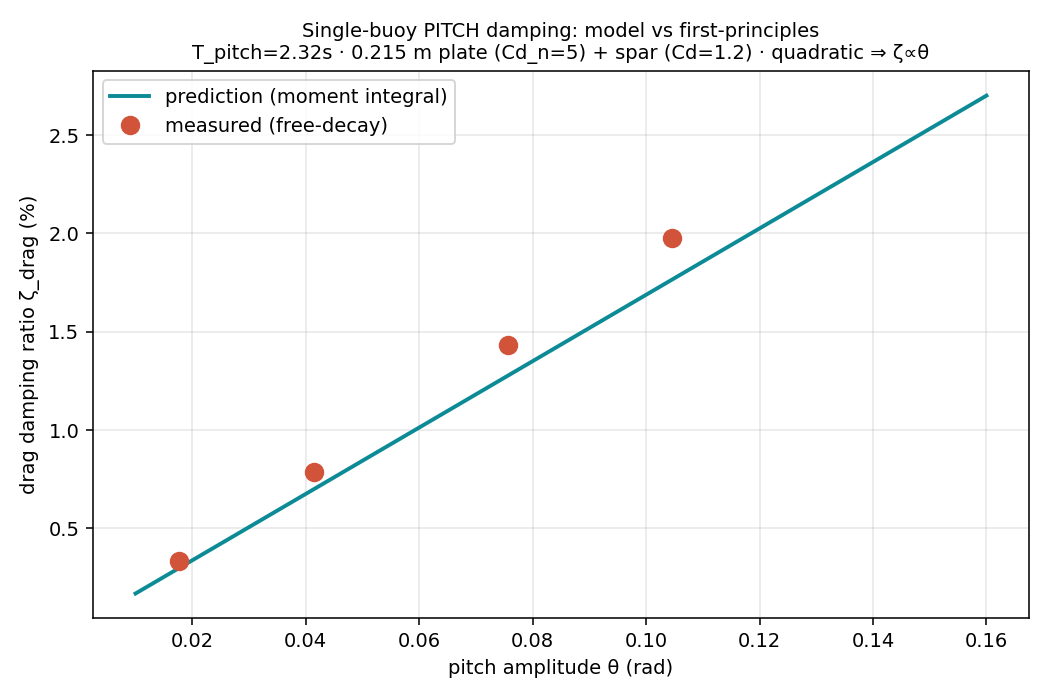
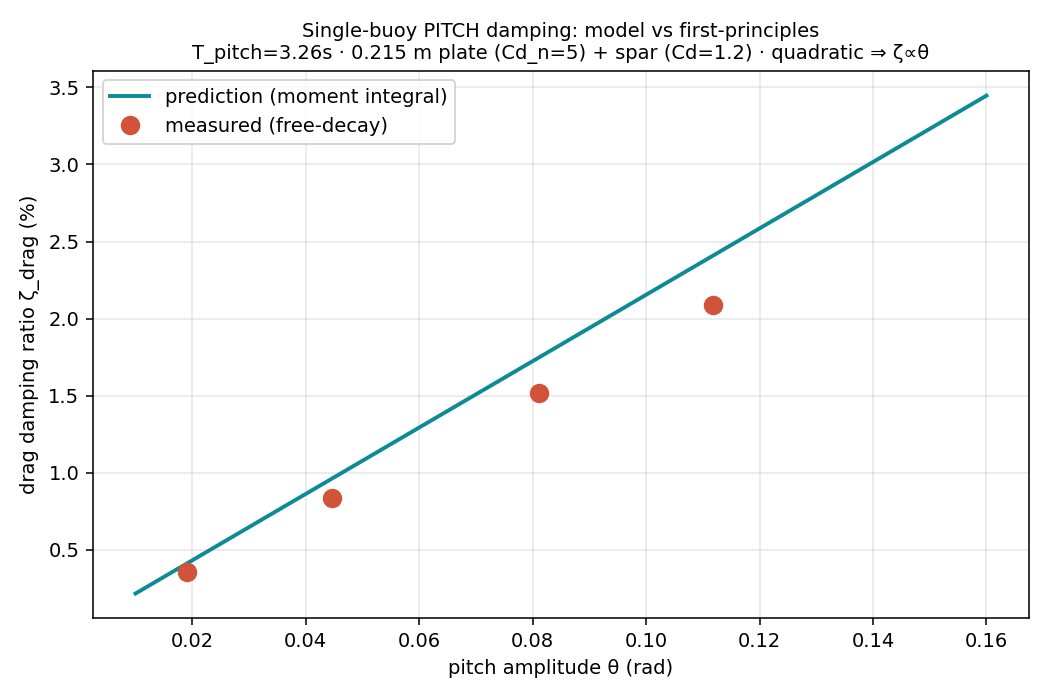
studies(spar-fin-decay): fix the pitch-block reference point
study_common.build_lhs assembled about the mesh origin (the waterline),
with a CoG offset AND the gravity term, although capytaine_bem.nc and
every sparfin_fin_bem database are solved about the CoG. C44/C55 came
out 393.39 instead of 107.56 N*m/rad (+ 28.67*9.81*1.0163 = 285.8), with
wrong M55/M15. It now uses FloatSim's own per-body assembly
(driver._per_body_lhs, deck body with reference point = CoG). The pitch-
and surge-acting drag geometry of sparfin_rao, sparfin_fin_fan and
pitch_decay_verify moves to the CoG frame (PLATE_Z_B, WL_Z_B).

- Heave is exactly unaffected (identical C33, M33 and heave couplings).
  tests/validation/test_m11a_pr1_drag_wiring.py and
  test_m11a_pr4_plate_drag.py (which reproduce the committed zeta
  through build_lhs) pass unchanged: 12 passed. make_morison_force is
  the heave-only surrogate and keeps its mesh-frame z, as pinned by the
  PR1 force-identity gate.
- PITCH-DAMPING-VERIFICATION re-run: pitch mode 3.26 s (was 2.32 s),
  zeta_rad 0.018 % (was 0.59 %), zeta_drag(0.10 rad) 1.52 %,
  meas/pred 0.87 constant across amplitudes (was 1.12), spar/plate
  95/5, n_seg=10 converged (0.8 %). The conclusions hold.
- The single-buoy RAO outputs (sparfin_rao_out, the fin fan) are stale
  and flagged; their reruns are deferred to the post-PR1 cycle.

Tracker STUDY-HYDROSTATIC-REFERENCE-POINT updated.

diff --git a/studies/spar-fin-decay/study_common.py b/studies/spar-fin-decay/study_common.py
@@ -11,6 +11,21 @@ resumption to the true equilibrium draft:
   - eqdraft mesh + BEM (test2_spar_fin_fullfix_eqdraft.gdf), waterline
     at z=0, buoy sinks dz=0.1846 m from design draft.
   - CoG z in eqdraft frame = -0.8317 - 0.1846 = -1.0163 m.
+
+Reference point (FIX 2026-09-24). ``build_lhs`` used to assemble about the
+mesh origin (the WATERLINE), with ``cog_offset (0, 0, CoG_Z)`` AND the
+gravity term, although capytaine_bem.nc (and every sparfin_fin_bem.py
+database) is solved about the CoG (``rotation_center`` = CoG). That gave
+C44 = C55 = 393.39 instead of 107.56 N*m/rad (28.67 * 9.81 * 1.0163 = 285.8
+added) and the wrong M55 / M15. It now uses FloatSim's own per-body assembly
+(``floatsim.driver._per_body_lhs``) on a deck body whose reference point is
+the CoG: the deck convention (reference point = body origin = CoG = BEM
+origin). Heave is exactly unaffected (identical C33, M33 and heave
+couplings). Drag geometry that acts in pitch/surge must be given in the
+body (CoG) frame: use ``PLATE_Z_B`` / ``WL_Z_B``. ``make_morison_force`` is
+the heave-only plate surrogate and keeps its mesh-frame z (irrelevant in
+heave; pinned by tests/validation/test_m11a_pr1_drag_wiring.py). Tracker
+STUDY-HYDROSTATIC-REFERENCE-POINT.
 """
 
 from __future__ import annotations
@@ -20,11 +35,12 @@ from pathlib import Path
 import numpy as np
 from numpy.typing import NDArray
 
-from floatsim.bodies.mass_properties import rigid_body_mass_matrix
+import floatsim.driver as fsd
 from floatsim.hydro.morison import MorisonElement, make_morison_state_force
-from floatsim.hydro.radiation import CumminsLHS, assemble_cummins_lhs
+from floatsim.hydro.radiation import CumminsLHS
 from floatsim.hydro.readers.capytaine import read_capytaine
 from floatsim.hydro.retardation import RetardationKernel, compute_retardation_kernel
+from floatsim.io.deck import Body, HydroDatabaseRef, Inertia
 
 _HERE = Path(__file__).resolve().parent
 _NC = _HERE / "capytaine_bem.nc"
@@ -56,6 +72,9 @@ PLATE_RADIUS = 0.215
 PLATE_L = 2.0 * PLATE_RADIUS  # 0.43 m (cylinder spans the plate diameter)
 PLATE_D = PLATE_AREA / PLATE_L  # so D*L = A_plate
 PLATE_Z = -1.278             # eqdraft plate z (mesh bottom); heave-irrelevant
+# Body (CoG) frame positions for drag that acts in pitch/surge (reference = CoG).
+PLATE_Z_B = PLATE_Z - CoG_Z  # -0.2617 (the M11a PR4 committed plate depth)
+WL_Z_B = 0.0 - CoG_Z         # +1.0163, the waterline
 
 _OVERRIDE = (
     "spar-fin study resumption: small-body L~1.85 m, 1/omega^4 regime "
@@ -68,23 +87,21 @@ def load_hdb():
     return read_capytaine(_NC)
 
 
-def build_lhs(hdb) -> CumminsLHS:
-    """Single-body M + A_inf and C (buoyancy_only C -> add gravity term)."""
-    r = np.array([0.0, 0.0, CoG_Z], dtype=np.float64)
-    # Inertia at the reference point (mesh origin) via parallel axis.
-    i_cog = np.diag([I_XX, I_YY, I_ZZ]).astype(np.float64)
-    r2 = float(r @ r)
-    i_ref = i_cog + M_BODY * (r2 * np.eye(3) - np.outer(r, r))
-    M = rigid_body_mass_matrix(
-        mass=M_BODY, inertia_at_reference=i_ref, cog_offset_body=r
-    )
-    return assemble_cummins_lhs(
-        rigid_body_mass=M,
-        hdb=hdb,
+def body() -> Body:
+    """The buoy as a FloatSim deck body: reference point = CoG = BEM origin."""
+    return Body(
+        name="spar_fin",
+        reference_point=[0.0, 0.0, CoG_Z],
         mass=M_BODY,
-        cog_offset_from_bem_origin=r,
-        gravity=G,
+        inertia=Inertia(Ixx=I_XX, Iyy=I_YY, Izz=I_ZZ),
+        hydro_database=HydroDatabaseRef(format="capytaine", path=str(_NC)),
     )
+
+
+def build_lhs(hdb) -> CumminsLHS:
+    """Single-body M + A_inf and C from FloatSim's per-body assembly
+    (reference point = CoG; gravity term with zero CoG offset)."""
+    return fsd._per_body_lhs(body(), hdb, gravity=G)
 
 
 def build_kernel(hdb) -> RetardationKernel:

diff --git a/studies/spar-fin-decay/sparfin_rao.py b/studies/spar-fin-decay/sparfin_rao.py
@@ -65,8 +65,8 @@ _HEAVE_DOF = 2
 _N_DOF = 6
 
 # Drag geometry -- single-buoy mesh frame (origin at isolated waterline z=0).
-_PLATE_Z = sc.PLATE_Z  # -1.278 (mesh); plate at the buoy bottom
-_WL_Z = 0.0  # waterline = mesh origin
+_PLATE_Z = sc.PLATE_Z_B  # -0.2617, body (CoG) frame; plate at the buoy bottom
+_WL_Z = sc.WL_Z_B  # +1.0163, the waterline in the body (CoG) frame
 _SPAR_D = 0.1682  # 2*R_SPAR (cluster_common); identical to platform
 _SPAR_CD = 1.2
 _PLATE_R = sc.PLATE_RADIUS  # 0.215
@@ -93,7 +93,7 @@ def _drag_deck(cd_n: float) -> Deck:
     )
     body = Body(
         name="buoy",
-        reference_point=[0.0, 0.0, 0.0],
+        reference_point=[0.0, 0.0, sc.CoG_Z],  # = CoG = BEM origin (build_lhs convention)
         mass=sc.M_BODY,
         inertia=Inertia(Ixx=sc.I_XX, Iyy=sc.I_YY, Izz=sc.I_ZZ),
         hydro_database=HydroDatabaseRef(format="capytaine", path=str(_NC)),

diff --git a/studies/spar-fin-decay/sparfin_fin_fan.py b/studies/spar-fin-decay/sparfin_fin_fan.py
@@ -61,7 +61,7 @@ def _drag(fin_r, cd_n):  # type: ignore[no-untyped-def]
         environment=Environment(water_depth=200.0, water_density=sc.RHO, gravity=sc.G),
         waves=DeckWave(type="regular", height=1.0, period=10.0, heading=0.0),
         bodies=[Body(
-            name="buoy", reference_point=[0.0, 0.0, 0.0], mass=sc.M_BODY,
+            name="buoy", reference_point=[0.0, 0.0, sc.CoG_Z], mass=sc.M_BODY,
             inertia=Inertia(Ixx=sc.I_XX, Iyy=sc.I_YY, Izz=sc.I_ZZ),
             hydro_database=HydroDatabaseRef(format="capytaine", path="x.nc"),
             drag_elements=elems)],

diff --git a/studies/spar-fin-decay/pitch_decay_verify.py b/studies/spar-fin-decay/pitch_decay_verify.py
@@ -41,7 +41,7 @@ from floatsim.hydro.morison import (  # noqa: E402
 from floatsim.solver.newmark import integrate_cummins  # noqa: E402
 
 _SPAR_D, _SPAR_CD = 0.1682, 1.2          # buoy spar Ø, transverse Cd (platform value)
-_WL_Z, _PLATE_Z = 0.0, sc.PLATE_Z        # waterline, plate z (eqdraft frame)
+_WL_Z, _PLATE_Z = sc.WL_Z_B, sc.PLATE_Z_B  # waterline, plate z (body/CoG frame, = build_lhs)
 _A, _T = sc.PLATE_RADIUS, 0.0039         # plate radius 0.215 m, rim thickness
 _CD_N, _CD_T = sc.PLATE_CD, 1.5          # plate normal 5.0, tangential 1.5
 _RHO = sc.RHO

diff --git a/studies/spar-fin-decay/PITCH-DAMPING-VERIFICATION.md b/studies/spar-fin-decay/PITCH-DAMPING-VERIFICATION.md
@@ -6,13 +6,23 @@ Mirrors the M11a spar-drag (PR2) + plate-drag (PR4) validation, extended to the 
 single-buoy **pitch** mode with **both** drag elements.
 Reproduce: `python studies/spar-fin-decay/pitch_decay_verify.py`.
 
+> **Corrected 2026-09-24 (tracker `STUDY-HYDROSTATIC-REFERENCE-POINT`).** The first version
+> of this record used `study_common.build_lhs`, which referenced the waterline and added the
+> gravity term to a BEM already solved about the CoG. That inflated C55 to 393.39 instead of
+> 107.56 N·m/rad and gave the wrong mode (T 2.32 s, ζ_rad 0.59 %, modal inertia 53.9). All
+> numbers below are re-run with FloatSim's CoG-referenced per-body assembly, with the drag
+> geometry in the CoG frame. The conclusions hold: quadratic, exact amplitude scaling,
+> spar-dominated, converged at n_seg = 10. The model-vs-prediction ratio moved from 1.12 to
+> 0.87, and the radiation share essentially vanished.
+
 ## Setup
-Isolated single buoy (`study_common.py` hydro: M+A∞, C+gravity, radiation kernel), with
+Isolated single buoy (`study_common.py` hydro: FloatSim per-body M+A∞ and C about the CoG,
+radiation kernel), with
 the **correct** drag added — distributed spar transverse Morison (`morison_element_force`,
 `_project_normal` = cross-axis only) + `PlateDragElement` (distributed normal + centre-lumped
 rim). Pitch-restoring mode from the drag-free eigenanalysis (drag is force-only ⇒ mode is
-independent of the drag code): **T_pitch = 2.32 s**, surge/pitch coupling β = +0.35 (rotates
-about z ≈ −0.35 m, not the reference point), modal inertia 53.9 kg·m². Released along the
+independent of the drag code): **T_pitch = 3.26 s**, surge/pitch coupling β = −0.18 (rotates
+about z ≈ +0.18 m above the CoG), modal inertia 30.1 kg·m². Released along the
 mode shape φ·θ₀; damping measured by log-decrement in the modal coordinate; drag isolated as
 ζ_drag = ζ_total − ζ_radiation.
 
@@ -20,37 +30,37 @@ mode shape φ·θ₀; damping measured by log-decrement in the modal coordinate;
 
 | θ (rad) | KC_plate | ζ_total | ζ_radiation | **ζ_drag (measured)** | ζ_drag (predicted) | meas/pred |
 |--------:|:--------:|:-------:|:-----------:|:---------------------:|:------------------:|:---------:|
-| 0.02 | 0.06 | 0.92% | 0.59% | **0.34%** | 0.30% | 1.13 |
-| 0.05 | 0.13 | 1.38% | 0.59% | **0.79%** | 0.70% | 1.13 |
-| 0.10 | 0.24 | 2.02% | 0.59% | **1.43%** | 1.28% | 1.12 |
-| 0.15 | 0.33 | 2.56% | 0.59% | **1.98%** | 1.77% | 1.12 |
+| 0.02 | 0.06 | 0.38% | 0.018% | **0.36%** | 0.41% | 0.87 |
+| 0.05 | 0.14 | 0.86% | 0.018% | **0.84%** | 0.96% | 0.87 |
+| 0.10 | 0.25 | 1.54% | 0.018% | **1.52%** | 1.75% | 0.87 |
+| 0.15 | 0.35 | 2.10% | 0.018% | **2.09%** | 2.41% | 0.87 |
 
 - **Quadratic-drag signature confirmed:** ζ_drag grows linearly with amplitude (ζ ∝ θ).
   A single damping ratio is meaningless — it must be quoted with amplitude/KC.
-- **Model reproduces the first-principles moment integral to ~12%**, and the **ratio is
-  constant (1.12–1.13) across all amplitudes** — the *amplitude scaling and physics are
-  exact*; the ~12% is the closed-form energy-linearization's accuracy (drag-free mode shape +
+- **Model reproduces the first-principles moment integral to ~13%**, and the **ratio is
+  constant (0.87) across all amplitudes** — the *amplitude scaling and physics are
+  exact*; the ~13% is the closed-form energy-linearization's accuracy (drag-free mode shape +
   (8/3π) equivalent-linearization), not a model error. (The absolute level rides on Cd anyway.)
 
 ## Result 2 — spar vs plate split
-Predicted at θ=0.10: spar **1.56%**, plate **0.13%** → **92% spar / 8% plate**; measured
-single-element decays: spar 1.35%, plate 0.12%. **Pitch damping is spar-dominated** (the long
+Predicted at θ=0.10: spar **2.05%**, plate **0.11%** → **95% spar / 5% plate**; measured
+single-element decays: spar 1.45%, plate 0.11%. **Pitch damping is spar-dominated** (the long
 ∫|z|³ moment arm), the opposite of *heave* damping which is plate-dominated. So the heave-plate
 does little for pitch; the slender spar's cross-flow drag is what damps the buoy's rotation.
 
 ## Result 3 — spar discretization convergence (ζ_drag at θ=0.10)
 | n_seg | 1 | 2 | 4 | 10 | 16 |
 |------:|:--:|:--:|:--:|:--:|:--:|
-| spar ζ_drag | 0.34% | 1.12% | 1.29% | **1.35%** | 1.36% |
+| spar ζ_drag | 0.10% | 1.01% | 1.35% | **1.45%** | 1.46% |
 
-A single lumped element under-predicts **~4×** (it carries almost no ∫|z|³ moment). The
-adopted **n_seg=10 is converged** (within 0.5% of n=16). Pitch damping *requires* the
+A single lumped element under-predicts **~15×** (it carries almost no ∫|z|³ moment about the
+CoG). The adopted **n_seg=10 is converged** (within 0.8% of n=16). Pitch damping *requires* the
 distributed sampling — this is the gate that guards it.
 
 ## Conclusion
 The model's pitch damping is **internally validated**: quadratic (ζ ∝ θ), matching the
-first-principles moment integral to ~12% with exact amplitude scaling, spar-dominated
-(92/8), and converged at n_seg=10. **Open item (option b):** the *absolute* level rides on the
+first-principles moment integral to ~13% with exact amplitude scaling, spar-dominated
+(95/5), and converged at n_seg=10. **Open item (option b):** the *absolute* level rides on the
 drag coefficients — a rotational forced-oscillation (or free-decay) tank test on one
 model-scale buoy at the design KC (~0.1–0.3 for pitch; low-KC regime) is needed to pin the
 effective pitch Cd, ideally bundled with the heave-plate Cd measurement. See

diff --git a/docs/phase2-followups.md b/docs/phase2-followups.md
@@ -2046,7 +2046,11 @@ so M55 and M15 are wrong too. The heave row and column are untouched.
   **Fixed 2026-09-23**, same route.
 - `studies/spar-fin-decay/study_common.build_lhs`: C55 = 393.39 instead of 107.56
   (28.67 × 9.81 × 1.0163 = 285.8; 107.56 + 285.8 = 393.4). Uncoupled pitch period
-  2.46 s instead of 3.36 s. **Open.**
+  2.46 s instead of 3.36 s. **Fixed 2026-09-24** (FloatSim per-body assembly; the pitch/surge
+  drag geometry of `sparfin_rao`, `sparfin_fin_fan` and `pitch_decay_verify` moved to the CoG
+  frame). `PITCH-DAMPING-VERIFICATION.md` re-run: pitch mode 3.26 s (was 2.32 s), ζ_rad
+  0.018 % (was 0.59 %), spar/plate 95/5. The single-buoy RAO outputs
+  (`sparfin_rao_out/`, the fin fan) are **stale, pending the post-PR1 rerun cycle**.
 
 **Audit reference.** Surfaced by the flume-mooring FloatSim re-check
 (`studies/flume-mooring/README.md`, "Status"). The comparison against FloatSim's
@@ -2111,8 +2115,8 @@ plus the spar-fin study fix and re-runs of its RAO consumers.
 **Blocks.** Trustworthy pitch/roll results from any study-level assembly. The spar-fin
 single-buoy RAO record.
 
-**Status.** Open. Surfaced 2026-09-23. OSU study fixed; the spar-fin fix and the check
-await approval.
+**Status.** Open. Surfaced 2026-09-23. OSU study fixed (2026-09-23); spar-fin pitch block
+fixed (2026-09-24); its RAO reruns are in the post-PR1 cycle. The check awaits approval.
 
 ---
 

diff --git a/studies/spar-fin-decay/fin_study/FIN-SENSITIVITY.md b/studies/spar-fin-decay/fin_study/FIN-SENSITIVITY.md
@@ -1,5 +1,11 @@
 # Fin-size sensitivity (single buoy) — RAO + max acceleration
 
+> **Stale, pending rerun (2026-09-24).** These single-buoy RAOs used a pitch block
+> assembled about the waterline (C55 393 vs 107.6; tracker `STUDY-HYDROSTATIC-REFERENCE-POINT`,
+> now fixed) and calm-water drag (tracker `DRAG-WAVE-KINEMATICS-UNWIRED`). Heave RAO shifts of
+> up to +17–20 % at T = 2.5 s were measured from the pitch block alone. They are rerun in the
+> post-PR1 cycle.
+
 Rigorous per-fin BEM study to inform the fin-size decision. Fin radius
 {0.215 (baseline), 0.15, none}, corrected heights 0.04–0.12 m, plate Cd_n {5, 1}
 (no-fin has no plate → spar-only). Each fin uses its **own** parametric Capytaine
